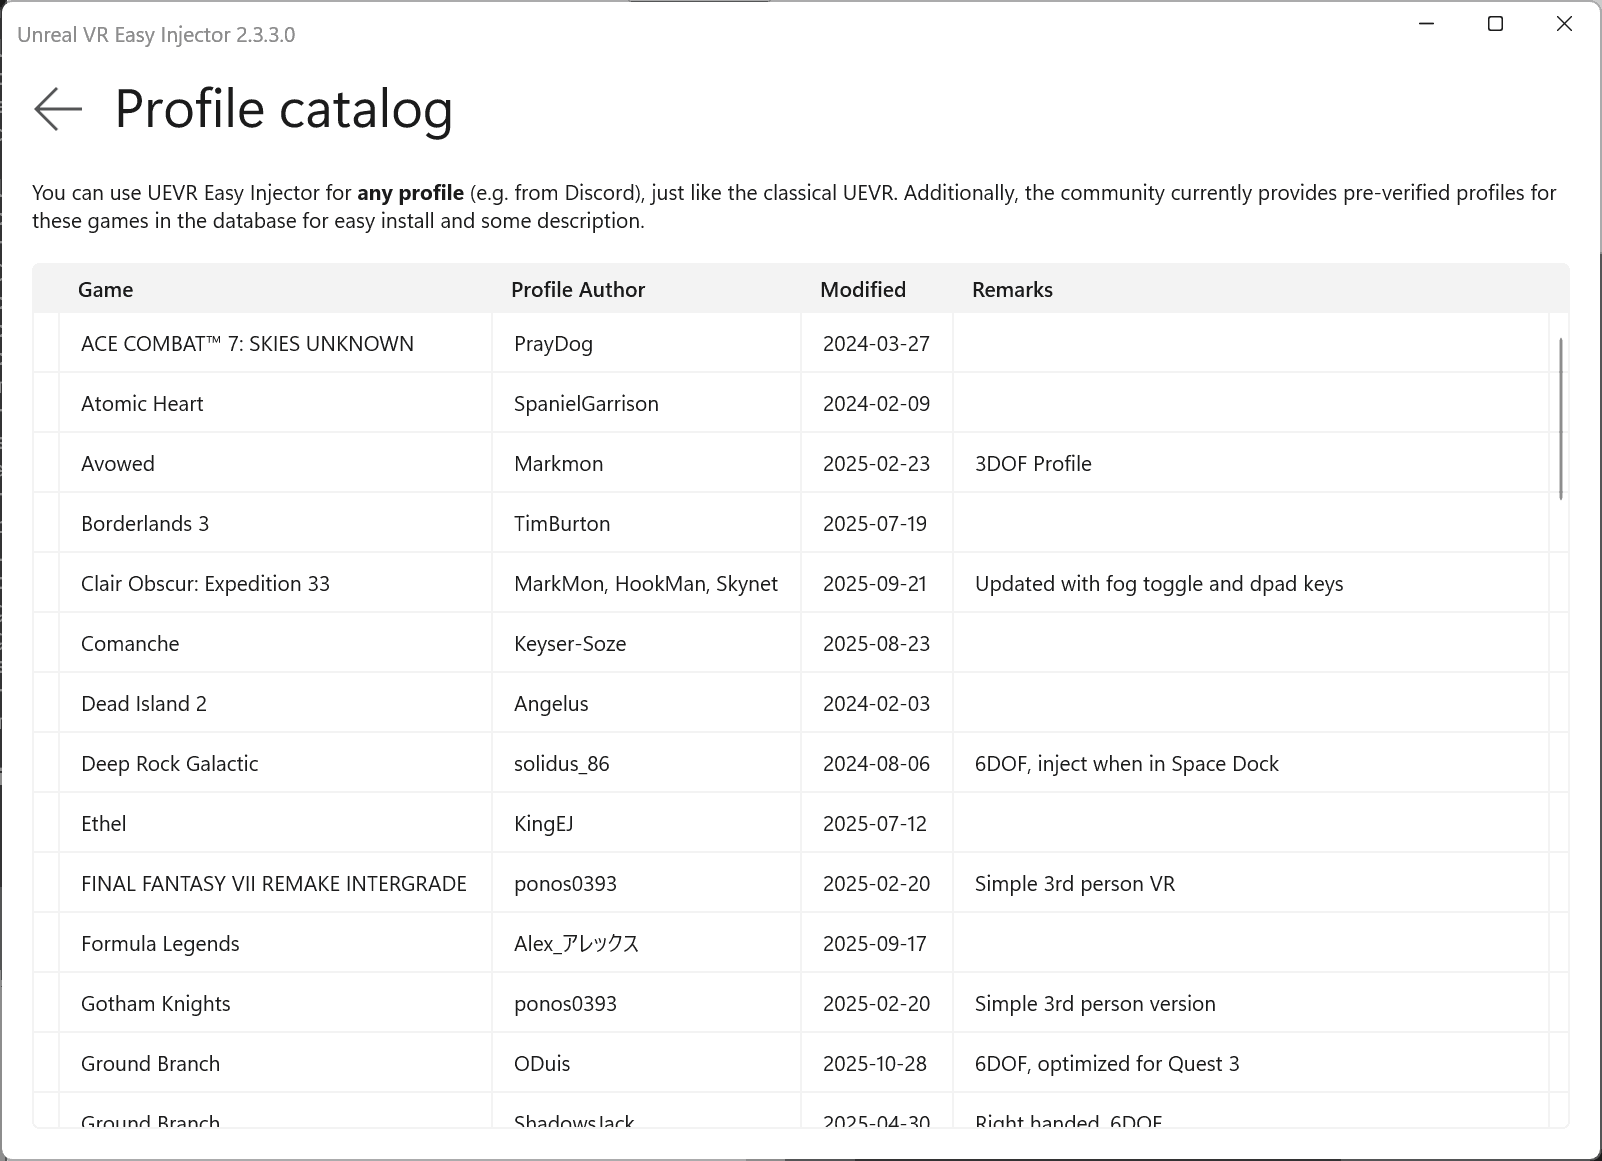
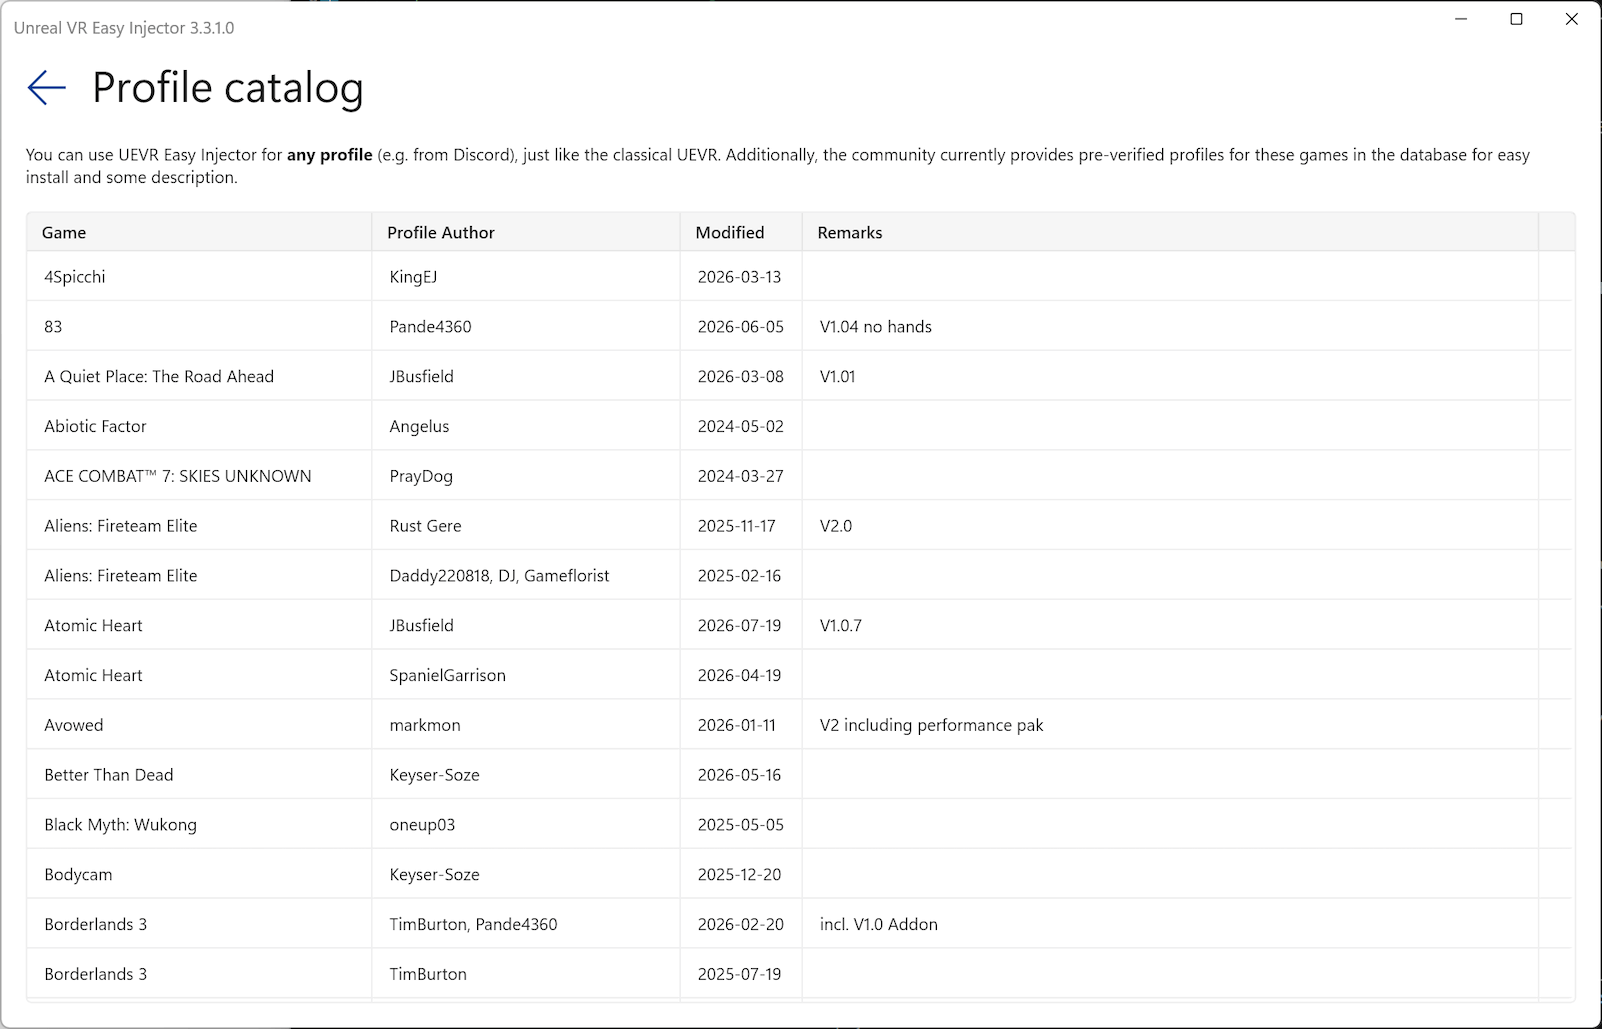
Updated screenshots

diff --git a/index.md b/index.md
@@ -2,7 +2,7 @@ Play numerous Unreal Engine games in Virtual Reality, such as with Meta Quest he
 This app takes [Praydog’s brilliant (UEVR)](https://github.com/praydog/UEVR) magic module, but replaces the UI part with a user-friendly, new one.   
 It adds features not found in UEVR classic, like:
 - an online profiles database
-- A selection of alternative backends (e.g., JoeyHodge and PurDark/AFW), offering better compatibility and higher performance than UEVR Classic
+- A selection of alternative backends (e.g., JoeyHodge and PurDark/AFW, Dortamur), offering better compatibility and higher performance than UEVR Classic
 - Automatic updates for UEVR backends
 - voice commands
 - A user friendly profiles editor
@@ -23,6 +23,11 @@ One click update to latest UEVR nightly backend version.
 Containing many tested profiles from Discord and other sources, constantly updated. Simple one click installation.  
 
 ![Profile database](assets/ProfileCatalog.png)
+
+## Multiple UEVR Backends
+Update and switch among them easily on a per games basis.
+
+![UEVR Backends](assets/UEVRBackends.png)
 
 ## Easy Profile Editor
 Includes the most commonly used options with descriptions to help you get started:
